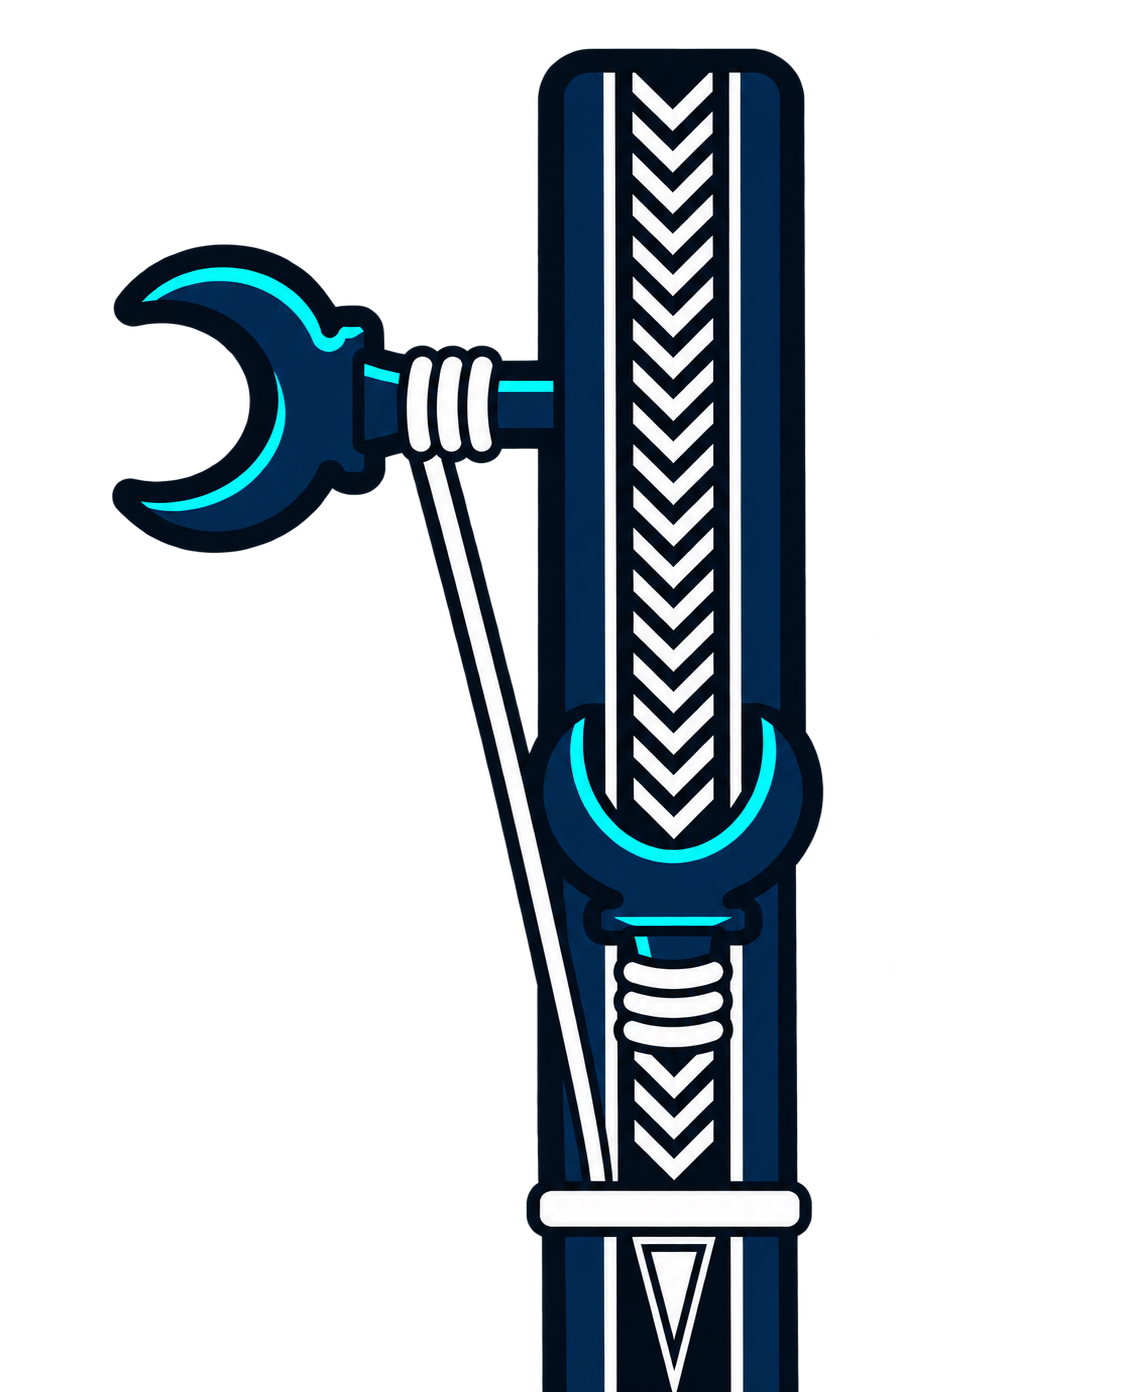
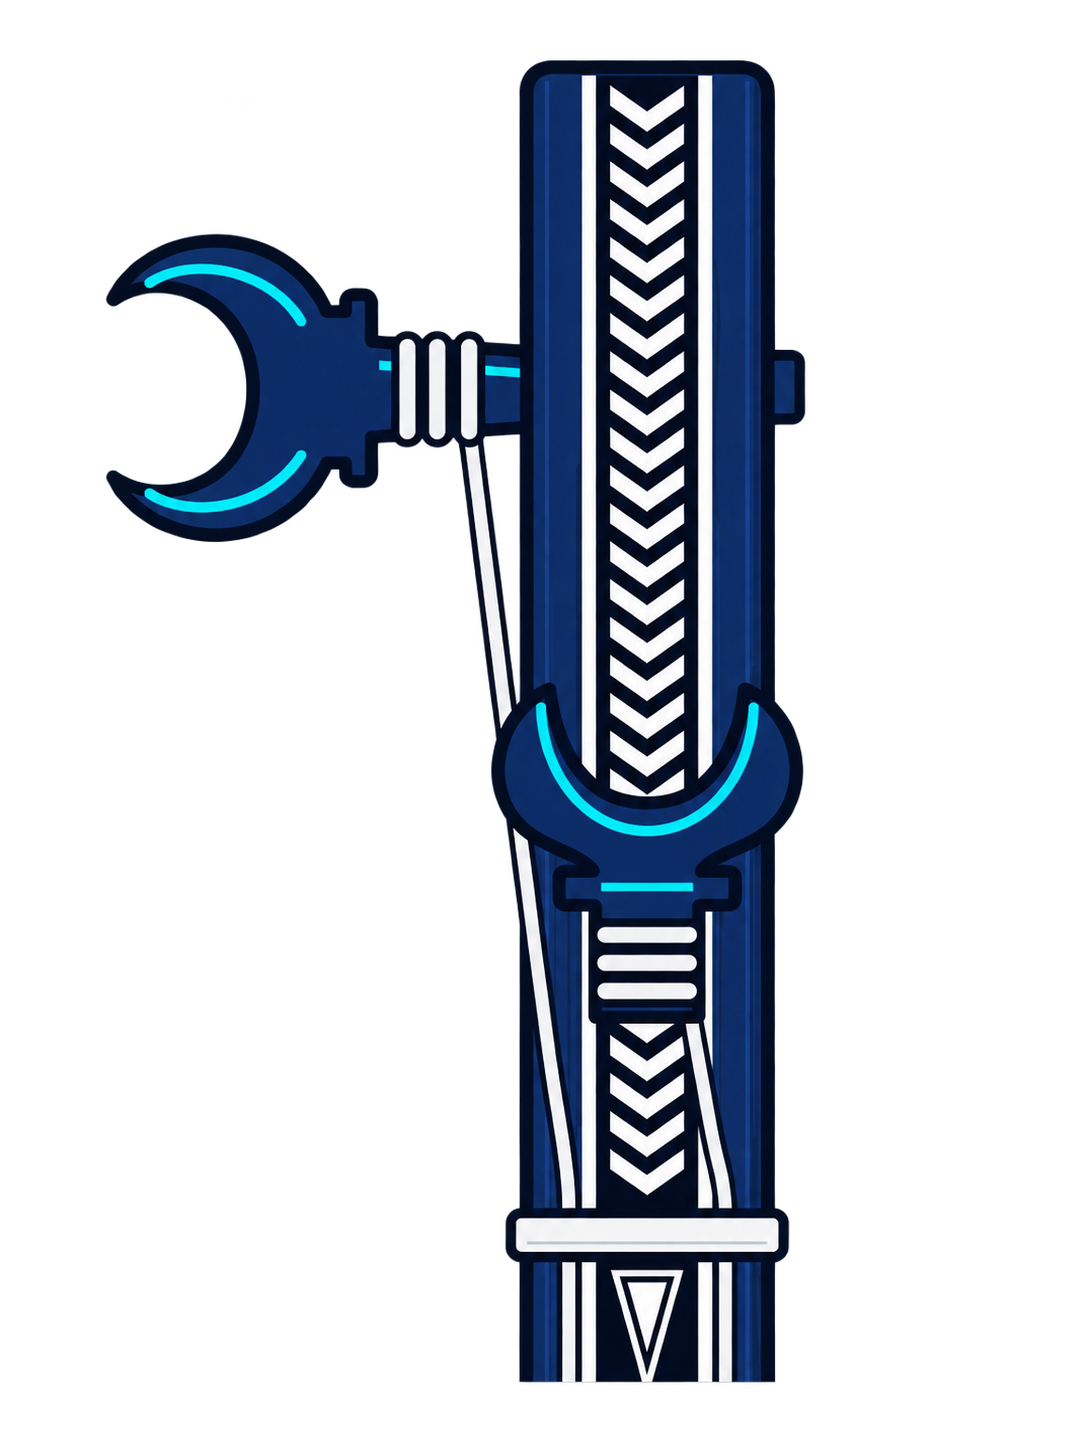
Update branding artwork and align fret note labels

Changed region(s): [[0.0912, 0.0309, 0.7597, 1.0]]

diff --git a/www/index.html b/www/index.html
@@ -9,6 +9,7 @@
 >
   <title>Duttarim</title>
   <script src="appearance.js"></script>
+  <script src="artwork-alignment.js" defer></script>
   <link rel="stylesheet" href="styles.css">
   <link rel="stylesheet" href="ui.css">
   <link rel="stylesheet" href="versions.css">
@@ -76,11 +77,11 @@
               data-active-string="0"
       >
         <div class="tuner-artwork">
-          <img src="dutar-head.png" alt="Duttar burguluk ve sapı" width="1130" height="1392">
-          <svg class="string-light-overlay" viewBox="0 0 1130 1392" aria-hidden="true">
+          <img src="dutar-head.png" alt="Duttar burguluk ve sapı" width="1086" height="1448">
+          <svg class="string-light-overlay" viewBox="0 0 1086 1448" aria-hidden="true">
 <defs><filter id="string-soft-glow" x="-60%" y="-30%" width="220%" height="160%" color-interpolation-filters="sRGB"><feGaussianBlur stdDeviation="8"/></filter></defs>
-<g class="string-light light-0"><g class="string-radiance"><path class="string-glow" d="M634 974 Q674 990 713 974 M634 1002 Q674 1017 713 1002 M634 1030 Q674 1045 713 1030 M736 945 V1180 M736 1242 V1392"/><path class="string-aura" d="M634 974 Q674 990 713 974 M634 1002 Q674 1017 713 1002 M634 1030 Q674 1045 713 1030 M736 945 V1180 M736 1242 V1392"/></g><path class="string-glint" d="M634 974 Q674 990 713 974 M634 1002 Q674 1017 713 1002 M634 1030 Q674 1045 713 1030 M736 945 V1180 M736 1242 V1392"/></g>
-<g class="string-light light-1"><g class="string-radiance"><path class="string-glow" d="M420 367 Q407 405 419 440 M450 367 Q437 405 449 440 M480 367 Q467 405 479 440 M430 462 L595 1180 M610 1242 V1392"/><path class="string-aura" d="M420 367 Q407 405 419 440 M450 367 Q437 405 449 440 M480 367 Q467 405 479 440 M430 462 L595 1180 M610 1242 V1392"/></g><path class="string-glint" d="M420 367 Q407 405 419 440 M450 367 Q437 405 449 440 M480 367 Q467 405 479 440 M430 462 L595 1180 M610 1242 V1392"/></g>
+<g class="string-light light-0"><g class="string-radiance"><path class="string-glow" d="M605 935 H688 M605 963 H688 M605 991 H688 M694 1028 L724 1206 M724 1265 V1380"/><path class="string-aura" d="M605 935 H688 M605 963 H688 M605 991 H688 M694 1028 L724 1206 M724 1265 V1380"/></g><path class="string-glint" d="M605 935 H688 M605 963 H688 M605 991 H688 M694 1028 L724 1206 M724 1265 V1380"/></g>
+<g class="string-light light-1"><g class="string-radiance"><path class="string-glow" d="M407 348 V430 M437 348 V430 M468 348 V430 M468 446 L504 710 M521 840 L569 1207 M569 1265 V1380"/><path class="string-aura" d="M407 348 V430 M437 348 V430 M468 348 V430 M468 446 L504 710 M521 840 L569 1207 M569 1265 V1380"/></g><path class="string-glint" d="M407 348 V430 M437 348 V430 M468 348 V430 M468 446 L504 710 M521 840 L569 1207 M569 1265 V1380"/></g>
 </svg>
         </div>
       </div>

diff --git a/www/artwork-alignment.js b/www/artwork-alignment.js
@@ -1,0 +1,41 @@
+// Coordinates measured on the 724 x 2171 full instrument master.
+(()=>{
+  const positions=[493,560,704,799,911,976,362,1055,1127,1165,1236];
+  const map=document.querySelector('#fretsPanel .fret-map');
+  const img=map?.querySelector('.fret-duttar img');
+  const grid=document.querySelector('#fretGrid');
+  if(!map||!img||!grid)return;
+  const ns='http://www.w3.org/2000/svg';
+  const guides=document.createElementNS(ns,'svg');
+  guides.classList.add('fret-guides');guides.setAttribute('aria-hidden','true');map.appendChild(guides);
+  let pending=false;
+  function schedule(){if(!pending){pending=true;requestAnimationFrame(align);}}
+  function align(){
+    pending=false;
+    const box=map.getBoundingClientRect(),art=img.getBoundingClientRect();
+    if(!box.height||!art.height)return;
+    guides.setAttribute('viewBox',`0 0 ${box.width} ${box.height}`);
+    guides.replaceChildren();
+    const labels=[...grid.querySelectorAll('.fret-label')].map(el=>({el,y:art.top-box.top+(el.dataset.index==='open'?704:positions[Number(el.dataset.index)])/2171*art.height}));
+    // Keep the original label sizes; guides retain the exact fret coordinates.
+    const right=labels.filter(x=>x.el.classList.contains('string-1')).sort((a,b)=>a.y-b.y);
+    let previousBottom=-Infinity;
+    for(const item of right){
+      const height=item.el.getBoundingClientRect().height;
+      item.displayY=Math.max(item.y,previousBottom+2+height/2);
+      previousBottom=item.displayY+height/2;
+    }
+    for(const item of labels){
+      item.el.style.top=(item.displayY??item.y)+'px';
+      const rect=item.el.getBoundingClientRect(),left=item.el.classList.contains('string-0');
+      const line=document.createElementNS(ns,'line');
+      line.setAttribute('x1',String((left?rect.right:rect.left)-box.left));
+      line.setAttribute('y1',String(rect.top-box.top+rect.height/2));
+      line.setAttribute('x2',String(art.left-box.left+(left?300:405)/724*art.width));
+      line.setAttribute('y2',String(item.y));guides.appendChild(line);
+    }
+  }
+  new ResizeObserver(schedule).observe(map);
+  new MutationObserver(schedule).observe(grid,{childList:true});
+  img.addEventListener('load',schedule);schedule();
+})();

diff --git a/www/tuner-visuals.css b/www/tuner-visuals.css
@@ -1,5 +1,5 @@
 /* Artwork and highlights share one coordinate system, including scaling. */
-#tunerPanel .tuner-artwork{position:relative;isolation:isolate;height:100%;max-height:215px;aspect-ratio:1130 / 1392;max-width:92%;transform:translateX(-6px) scale(.94);flex:none}
+#tunerPanel .tuner-artwork{position:relative;isolation:isolate;height:100%;max-height:215px;aspect-ratio:1086 / 1448;max-width:92%;transform:translateX(-6px) scale(.94);flex:none}
 #tunerPanel .tuner-artwork img,#tunerPanel .tuner-card.in-tune .tuner-artwork img{display:block;width:100%;height:100%;max-width:none;max-height:none;transform:none;object-fit:contain}
 .string-light-overlay{position:absolute;inset:0;width:100%;height:100%;z-index:3;pointer-events:none;overflow:visible}
 .string-light{opacity:0;transition:opacity .18s ease;fill:none;stroke-linecap:round;stroke-linejoin:round}

diff --git a/www/layout-polish.css b/www/layout-polish.css
@@ -16,6 +16,10 @@ img{-webkit-user-drag:none}
 /* Labels and guide lines remain below the transparent instrument artwork. */
 #fretsPanel .fret-labels{z-index:1}
 #fretsPanel .fret-duttar{z-index:2;pointer-events:none}
+#fretsPanel .fret-duttar img{height:133.33%;max-height:none}
+#fretsPanel .fret-label.dual-fret{transform:translateY(-50%)}
+#fretsPanel .fret-label.dual-fret::before{display:none}
+#fretsPanel .fret-guides{position:absolute;inset:0;width:100%;height:100%;z-index:1;pointer-events:none;overflow:visible;stroke:var(--turq);stroke-width:1;stroke-dasharray:3 3;opacity:.75}
 #fretsPanel .fret-label.dual-fret{height:clamp(22px,5.8vw,26px)}
 .song-view-tabs{padding:3px;margin-bottom:8px}
 .song-view-btn{min-height:36px;padding:7px 5px;font-size:12px}
